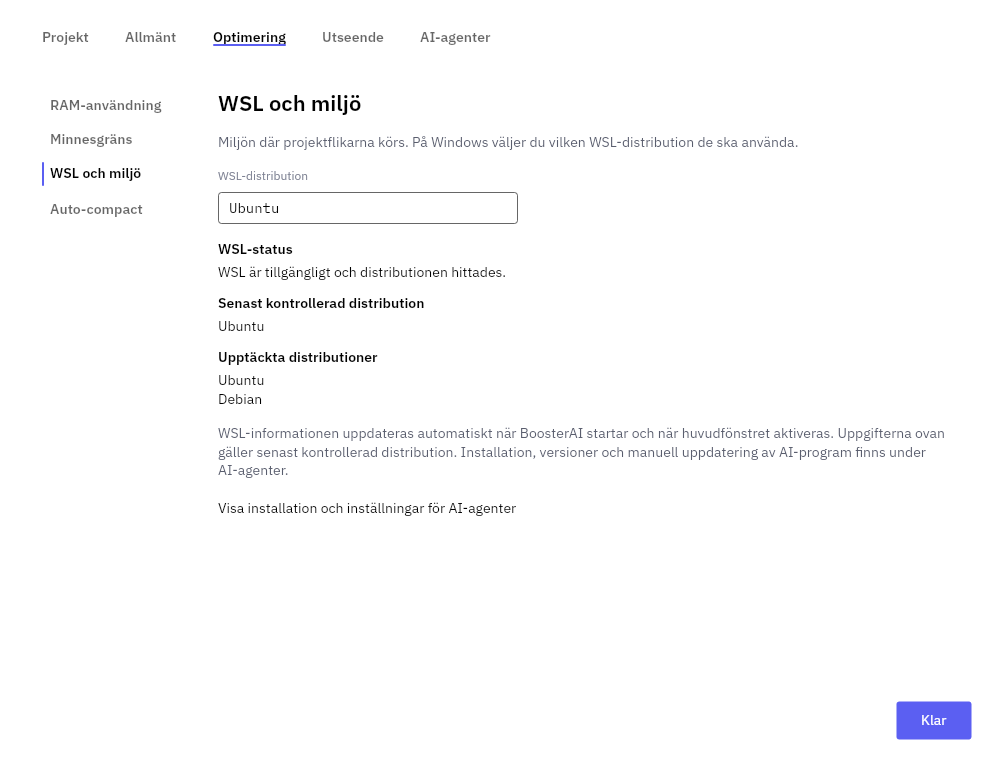
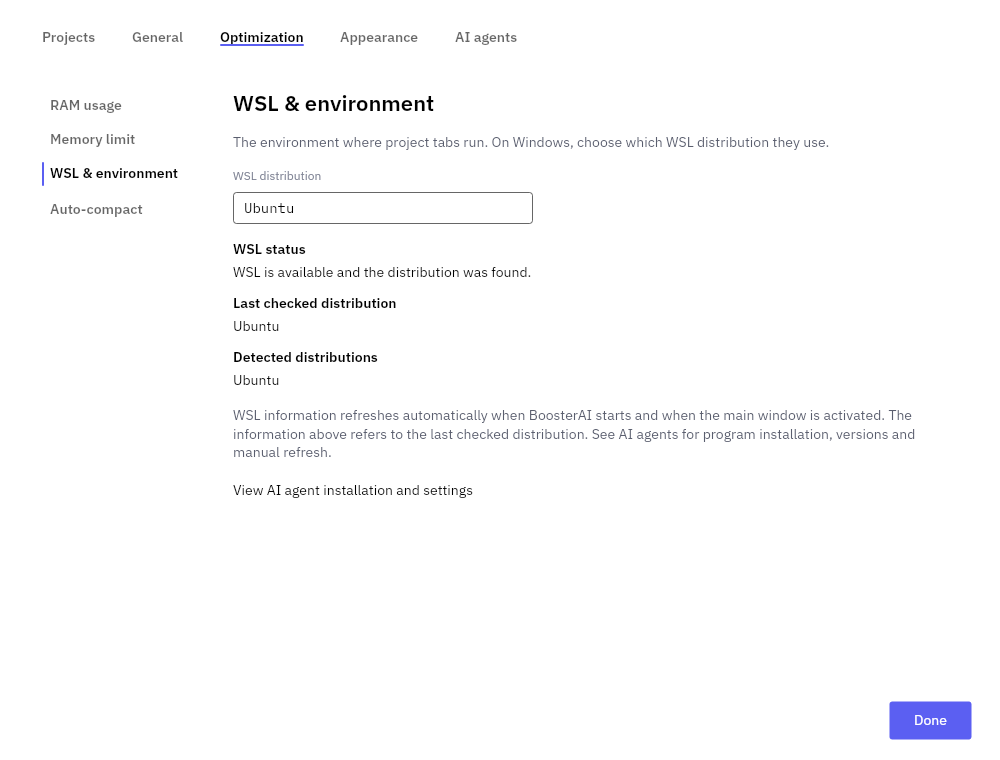
Show RAM usage and WSL environment as separate website previews (#135)

diff --git a/docs/index.html b/docs/index.html
@@ -752,7 +752,8 @@
               <button class="tab-btn" onclick="switchPreview('light', this)">Start (Light)</button>
               <button class="tab-btn" onclick="switchPreview('settings', this)">Settings (General)</button>
               <button class="tab-btn" onclick="switchPreview('appearance', this)">Settings (Appearance)</button>
-              <button class="tab-btn" onclick="switchPreview('wsl', this)">WSL & RAM Optimization</button>
+              <button class="tab-btn" onclick="switchPreview('memory', this)">RAM usage</button>
+              <button class="tab-btn" onclick="switchPreview('wsl', this)">WSL &amp; environment</button>
               <button class="tab-btn" onclick="switchPreview('compact', this)">Auto-compact</button>
             </div>
             <div style="width: 20px;"></div>
@@ -971,12 +972,23 @@
       btn.classList.add('active');
       const img = document.getElementById('previewImg');
       img.style.opacity = '0.3';
+      const descriptions = {
+        dark: 'BoosterAI start window in the dark theme',
+        light: 'BoosterAI start window in the light theme',
+        settings: 'General settings in BoosterAI',
+        appearance: 'Appearance settings in BoosterAI',
+        memory: 'WSL RAM usage with current memory, 30-minute history and the configured cap',
+        wsl: 'WSL environment settings and detected distributions',
+        compact: 'Auto-compact context settings in BoosterAI'
+      };
+      img.alt = descriptions[mode] || 'BoosterAI app screenshot';
       setTimeout(() => {
         if (mode === 'dark') img.src = 'screenshot-dark.png?v=20261105';
         else if (mode === 'light') img.src = 'screenshot.png?v=20261105';
         else if (mode === 'settings') img.src = 'settings-general.png?v=20261105';
         else if (mode === 'appearance') img.src = 'settings-appearance.png?v=20261105';
-        else if (mode === 'wsl') img.src = 'settings-wsl.png?v=20261105-102';
+        else if (mode === 'memory') img.src = 'settings-ram.png?v=20261109-135';
+        else if (mode === 'wsl') img.src = 'settings-wsl.png?v=20261109-135';
         else if (mode === 'compact') img.src = 'settings-compact.png?v=20261105-102';
         img.onload = () => { img.style.opacity = '1'; };
         // Fallback in case image is already cached
